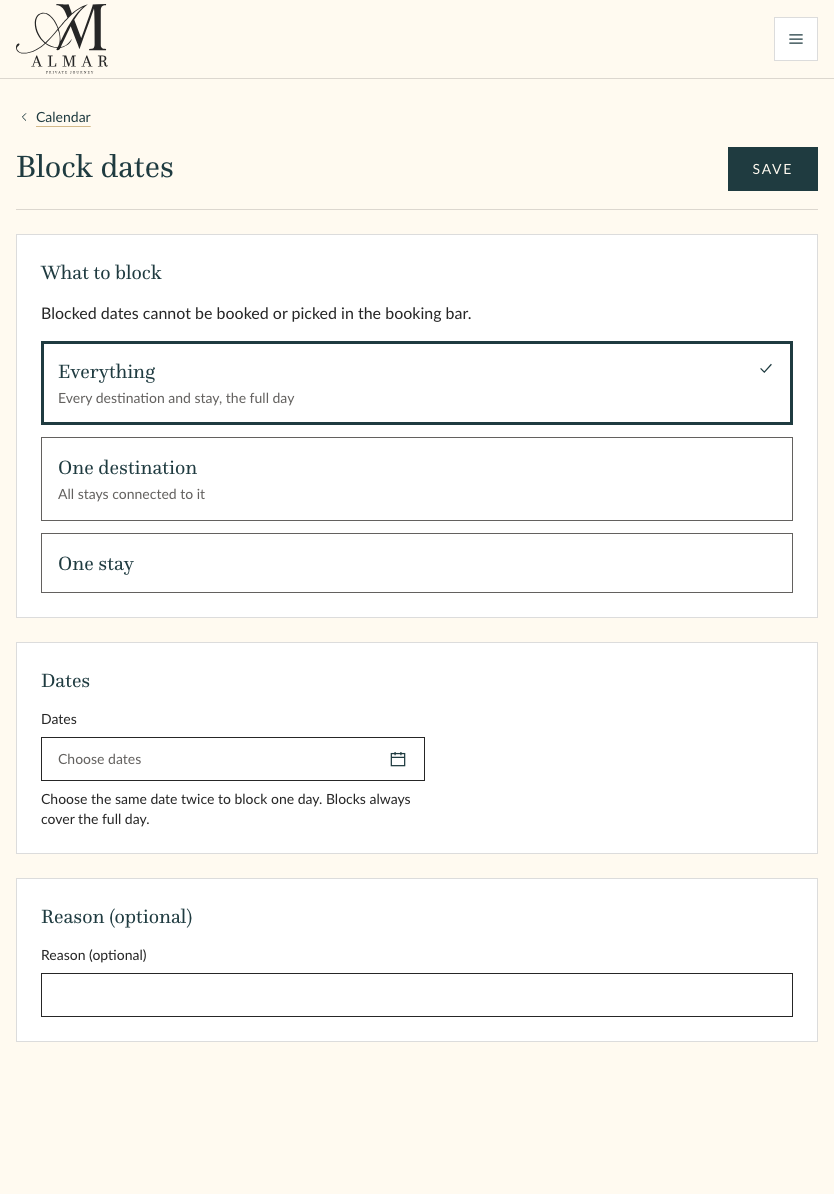
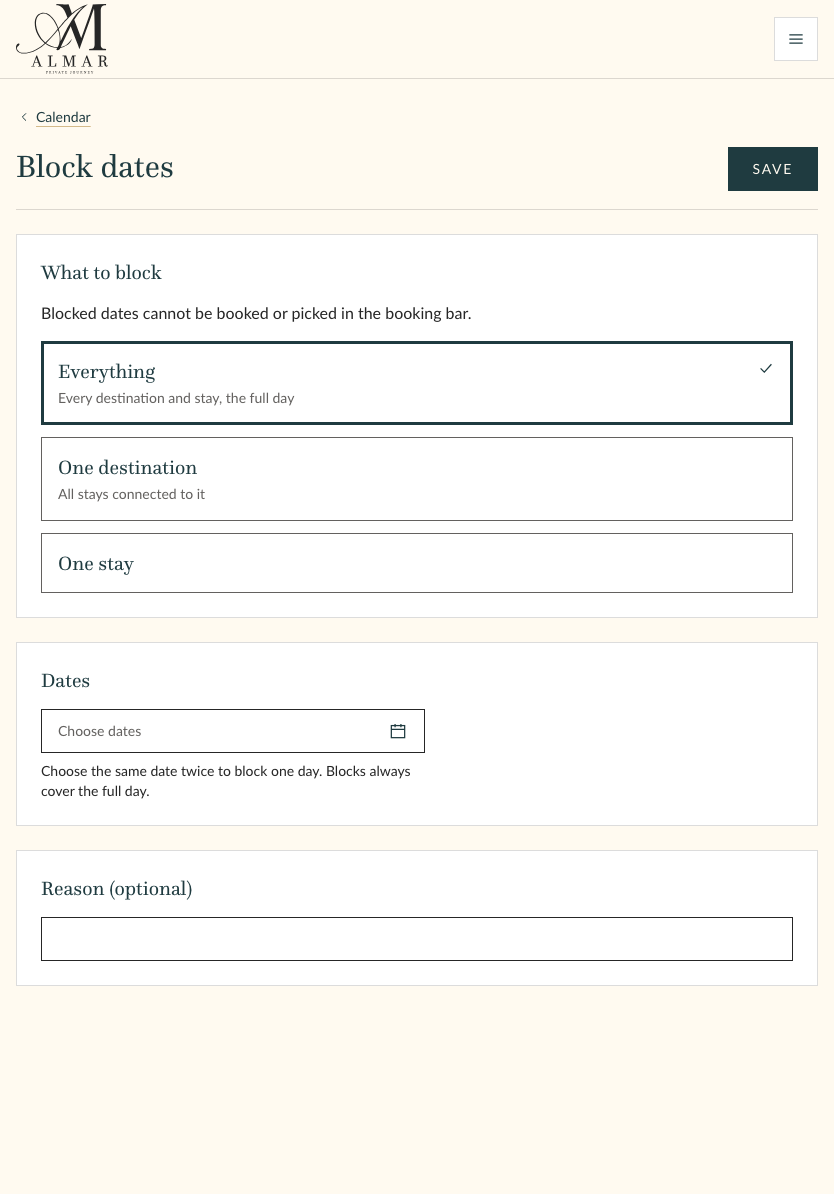
docs(3.2-13): 27 form pictures re-drawn with each card title said once

Changed region(s): [[0.0312, 0.5888, 0.4988, 0.8057]]

diff --git a/tests/ops-calendar.spec.ts b/tests/ops-calendar.spec.ts
@@ -141,7 +141,7 @@ async function expectState(page: Page, state: string, locale: Locale) {
       );
       expect(shown, `"${title}" drawn once`).toBe(1);
     }
-    await expect(editor.getByLabel(copy.reasonOptional, { exact: true })).toBeVisible();
+    await expect(editor.getByRole("textbox", { name: copy.reasonOptional, exact: true })).toBeVisible();
     await expect(editor.locator('button[id$="-dates"]')).toBeVisible();
     expect(await editor.locator('label[for$="-dates"]').textContent()).toBe(copy.dates);
     // A block has no publish step: Save is the one action, the shared primary button: teal fill, ivory (#fffaf0) text.
